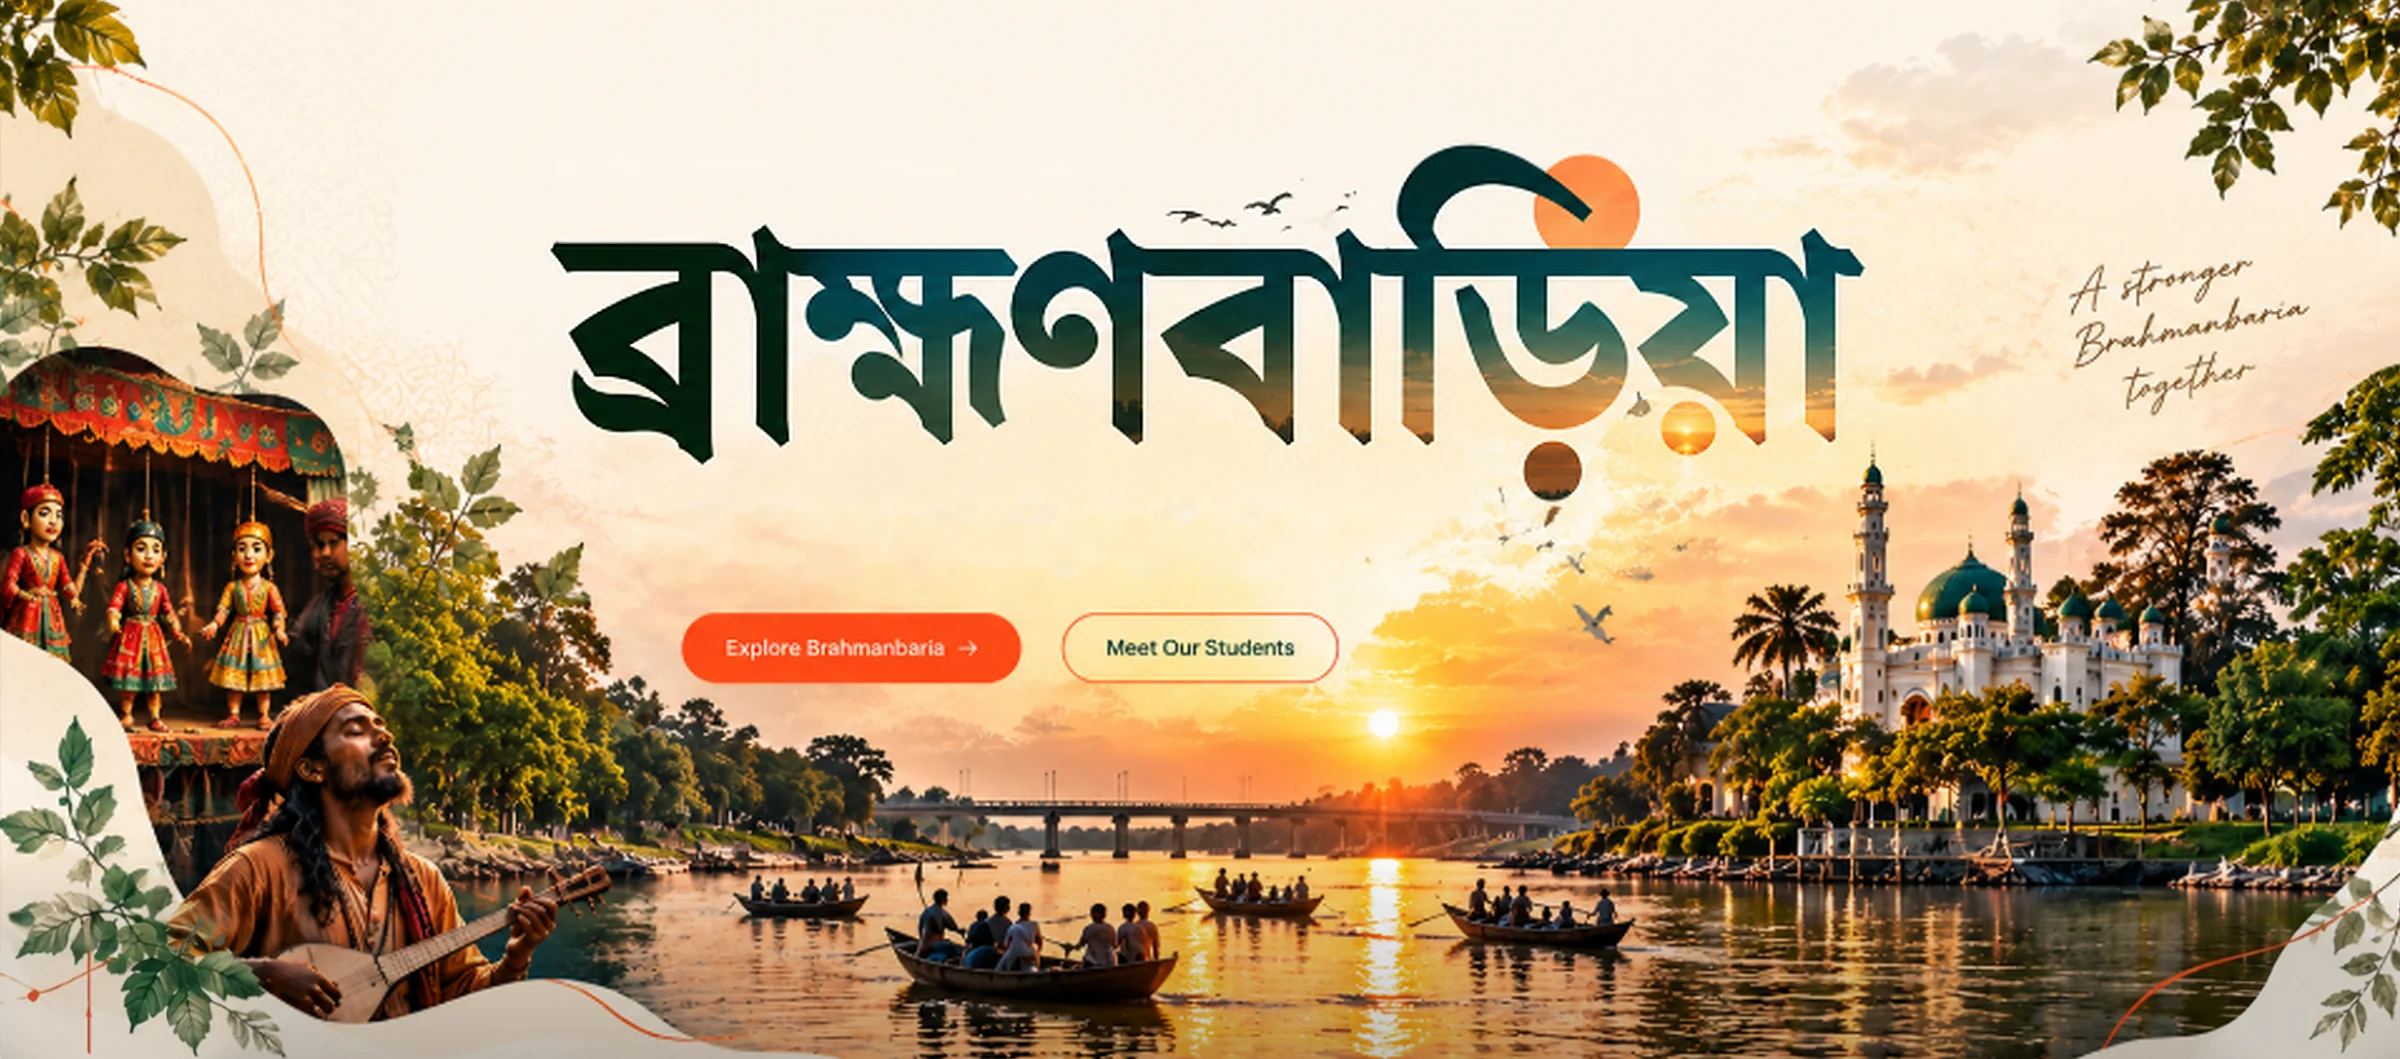
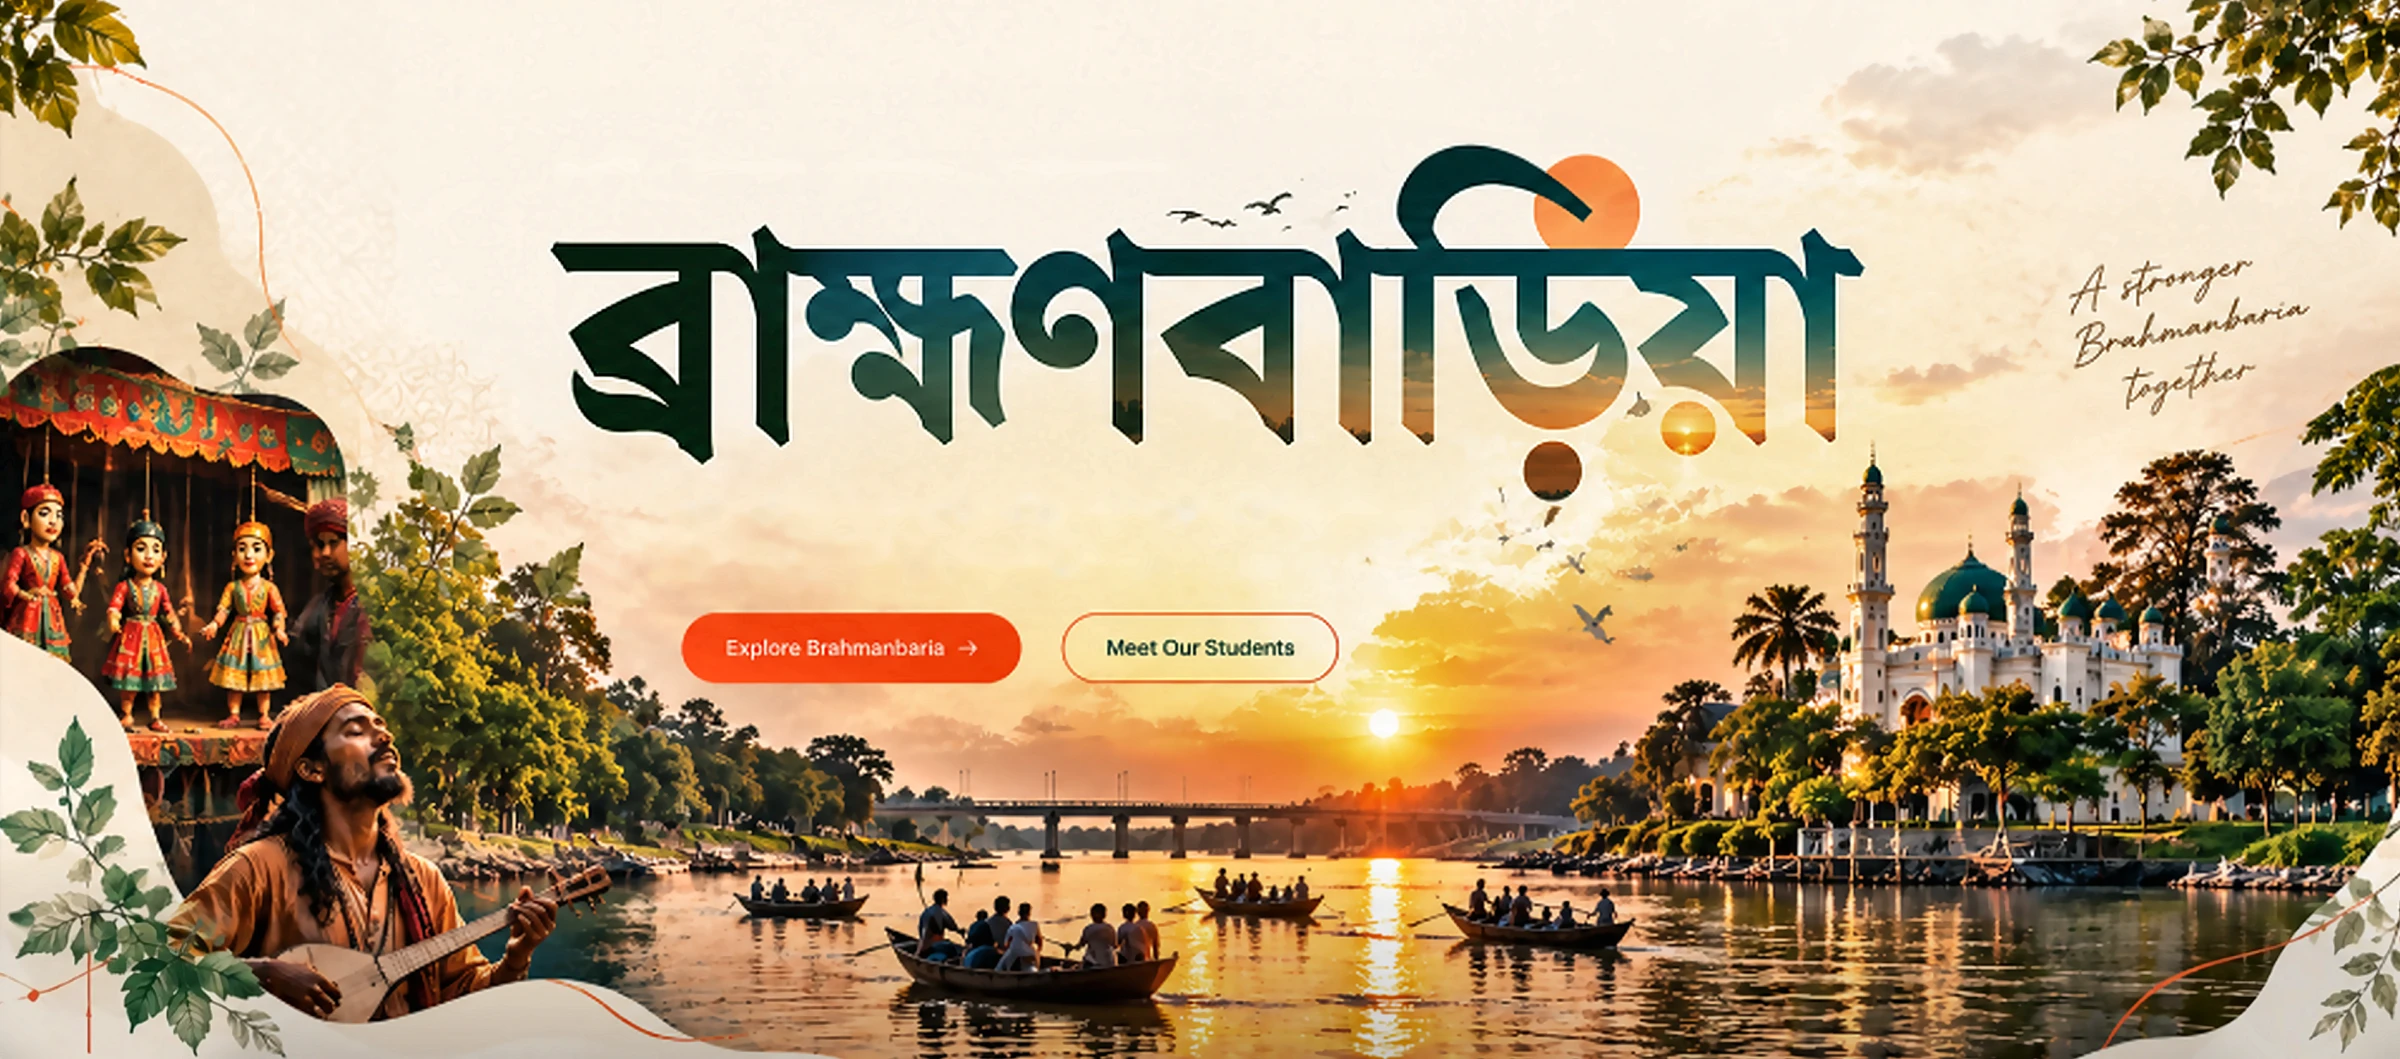
Sharper home hero and Explore pictures: larger Explore source upscaled 2x, edge-preserving sharpening and gentle local contrast on both

diff --git a/frontend/src/pages/Home.jsx b/frontend/src/pages/Home.jsx
@@ -111,7 +111,7 @@ export default function Home() {
         <div className="explore2-grid">
           <Reveal className="ex-media ex-exact">
             {/* the supplied artwork as designed: photograph, brushed edge, sprigs and the lettering are one picture */}
-            <img data-parallax="0.06" src="/images/bswa/explore-mockup.webp" width="737" height="464" loading="lazy" decoding="async"
+            <img data-parallax="0.06" src="/images/bswa/explore-mockup.webp" width="1878" height="1196" loading="lazy" decoding="async"
               alt={pick('তিতাসের তীরে সূর্যাস্ত, মসজিদ ও নৌকা — নদী, ঐতিহ্য, মানুষ', 'Sunset on the river with a mosque and boats — rivers, heritage, people')} />
           </Reveal>
           <div className="ex-copy">

diff --git a/frontend/src/styles.css b/frontend/src/styles.css
@@ -888,7 +888,7 @@ html[lang='bn'] .hx-hit { font-size: max(10px, .82cqw); }
 }
 
 /* explore section: the supplied picture, flush with the left edge like the design */
-.ex-exact img { display: block; width: 100%; height: auto; aspect-ratio: 737 / 464; }
+.ex-exact img { display: block; width: 100%; height: auto; aspect-ratio: 1878 / 1196; }
 
 /* =================================================================== premium polish for the inner pages */
 /* page hero: breadcrumb, calmer spacing, no half-circle at the edge */
